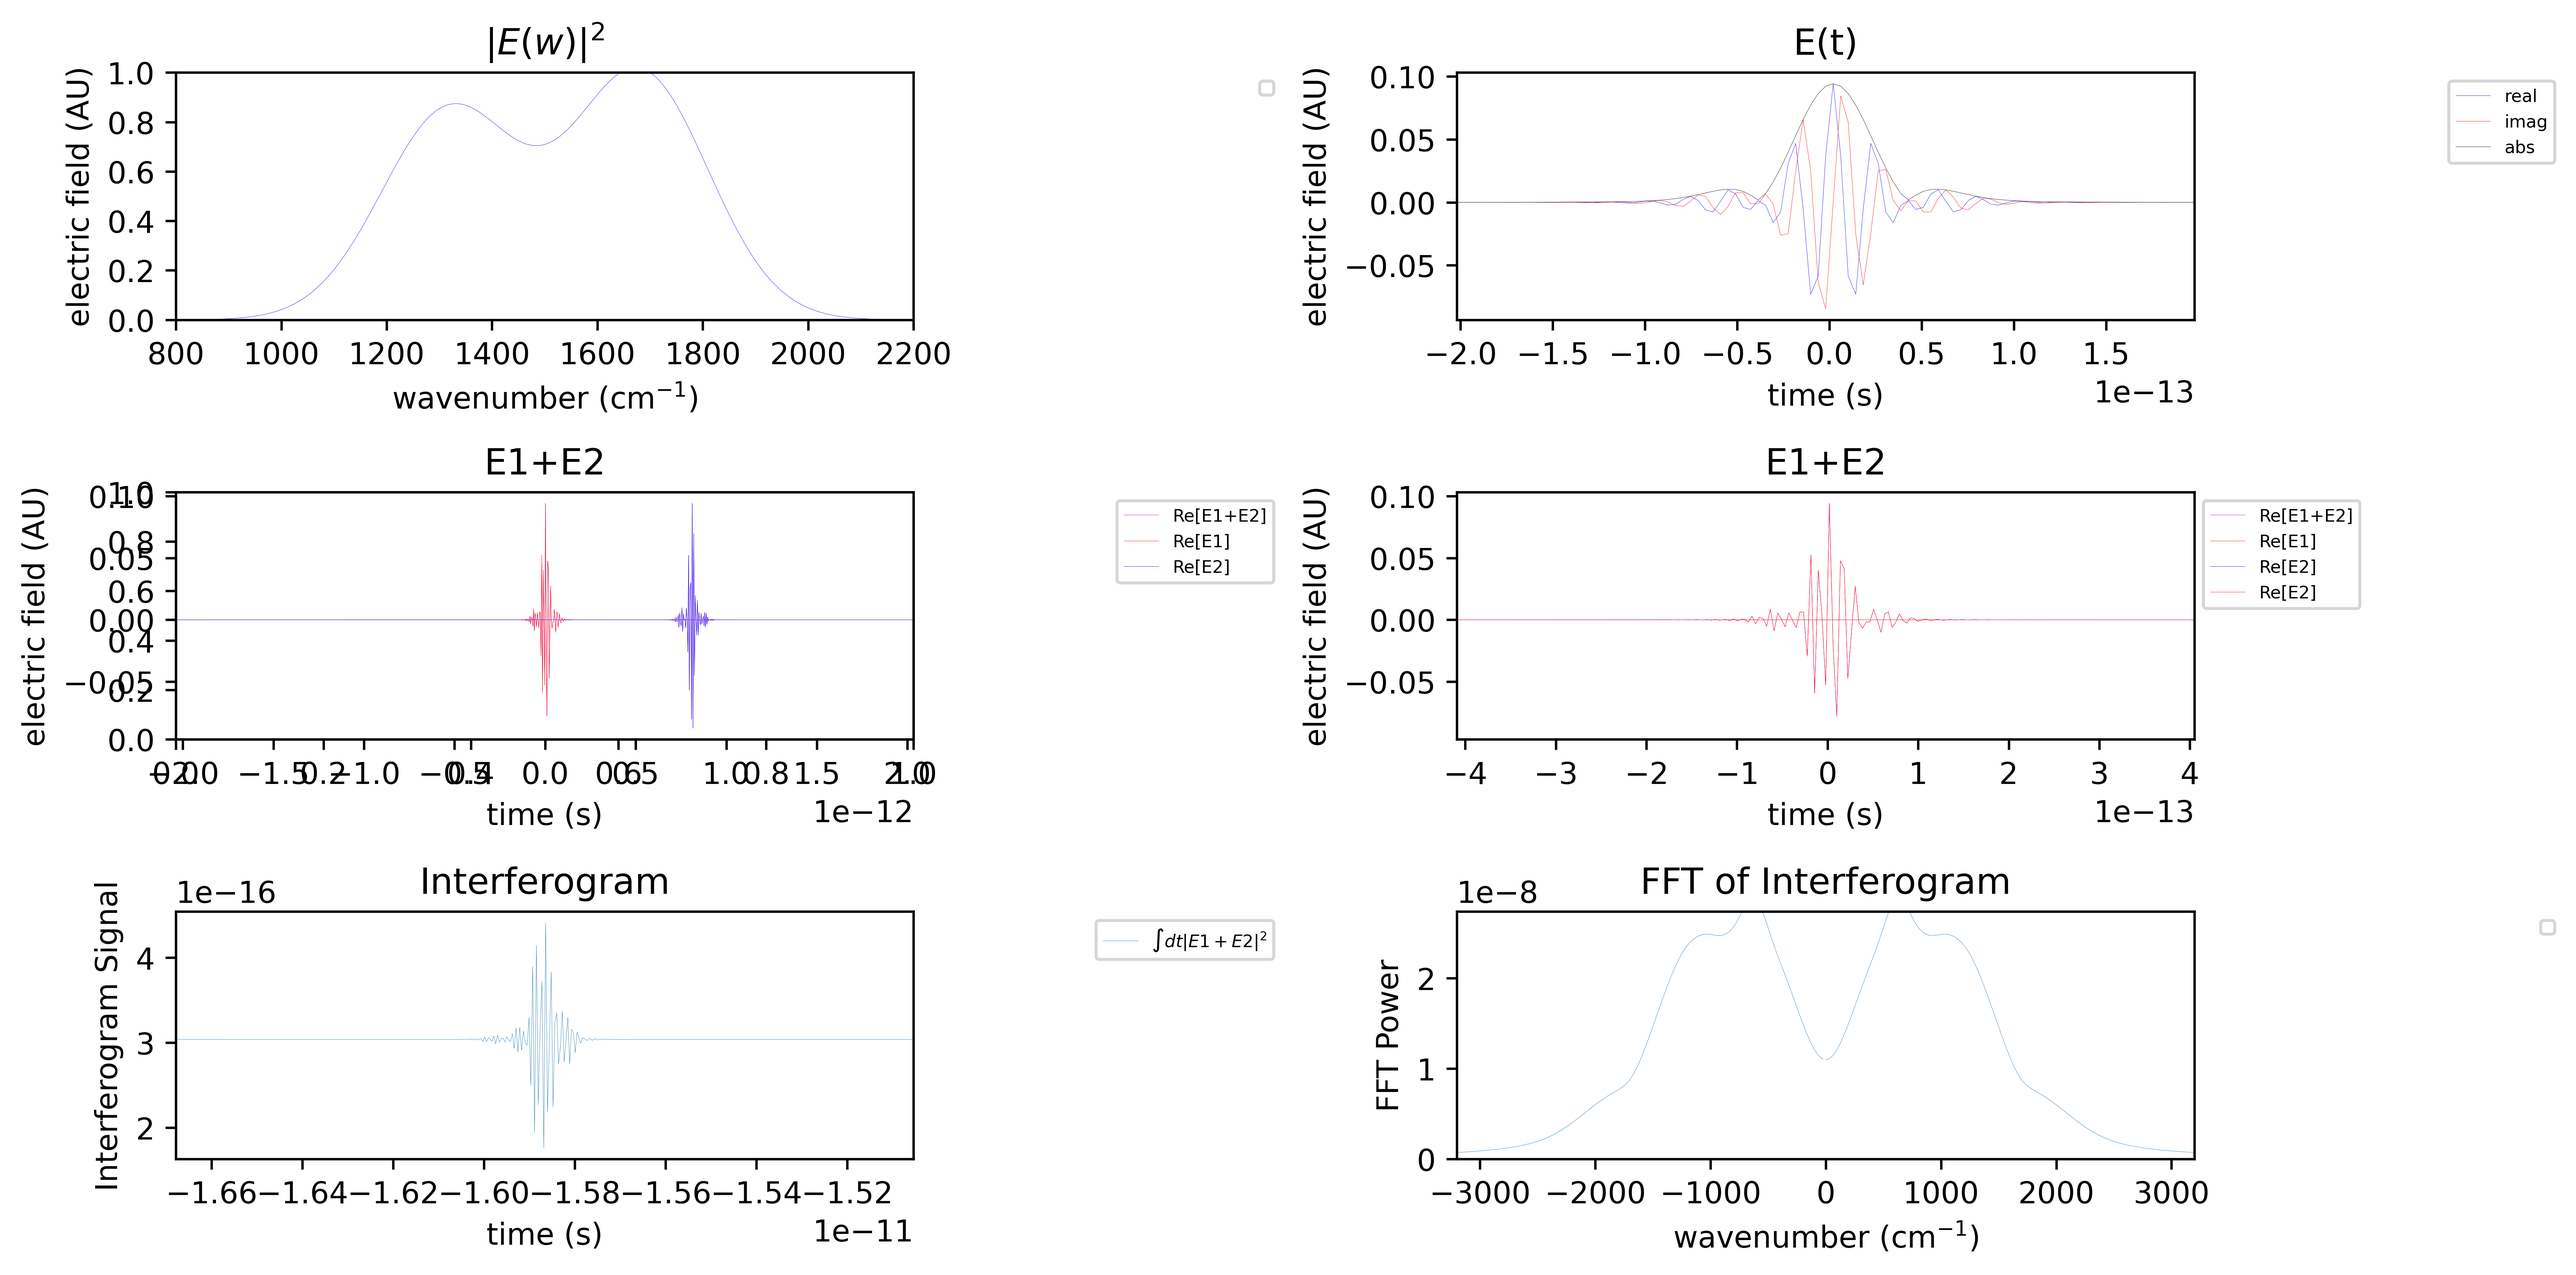
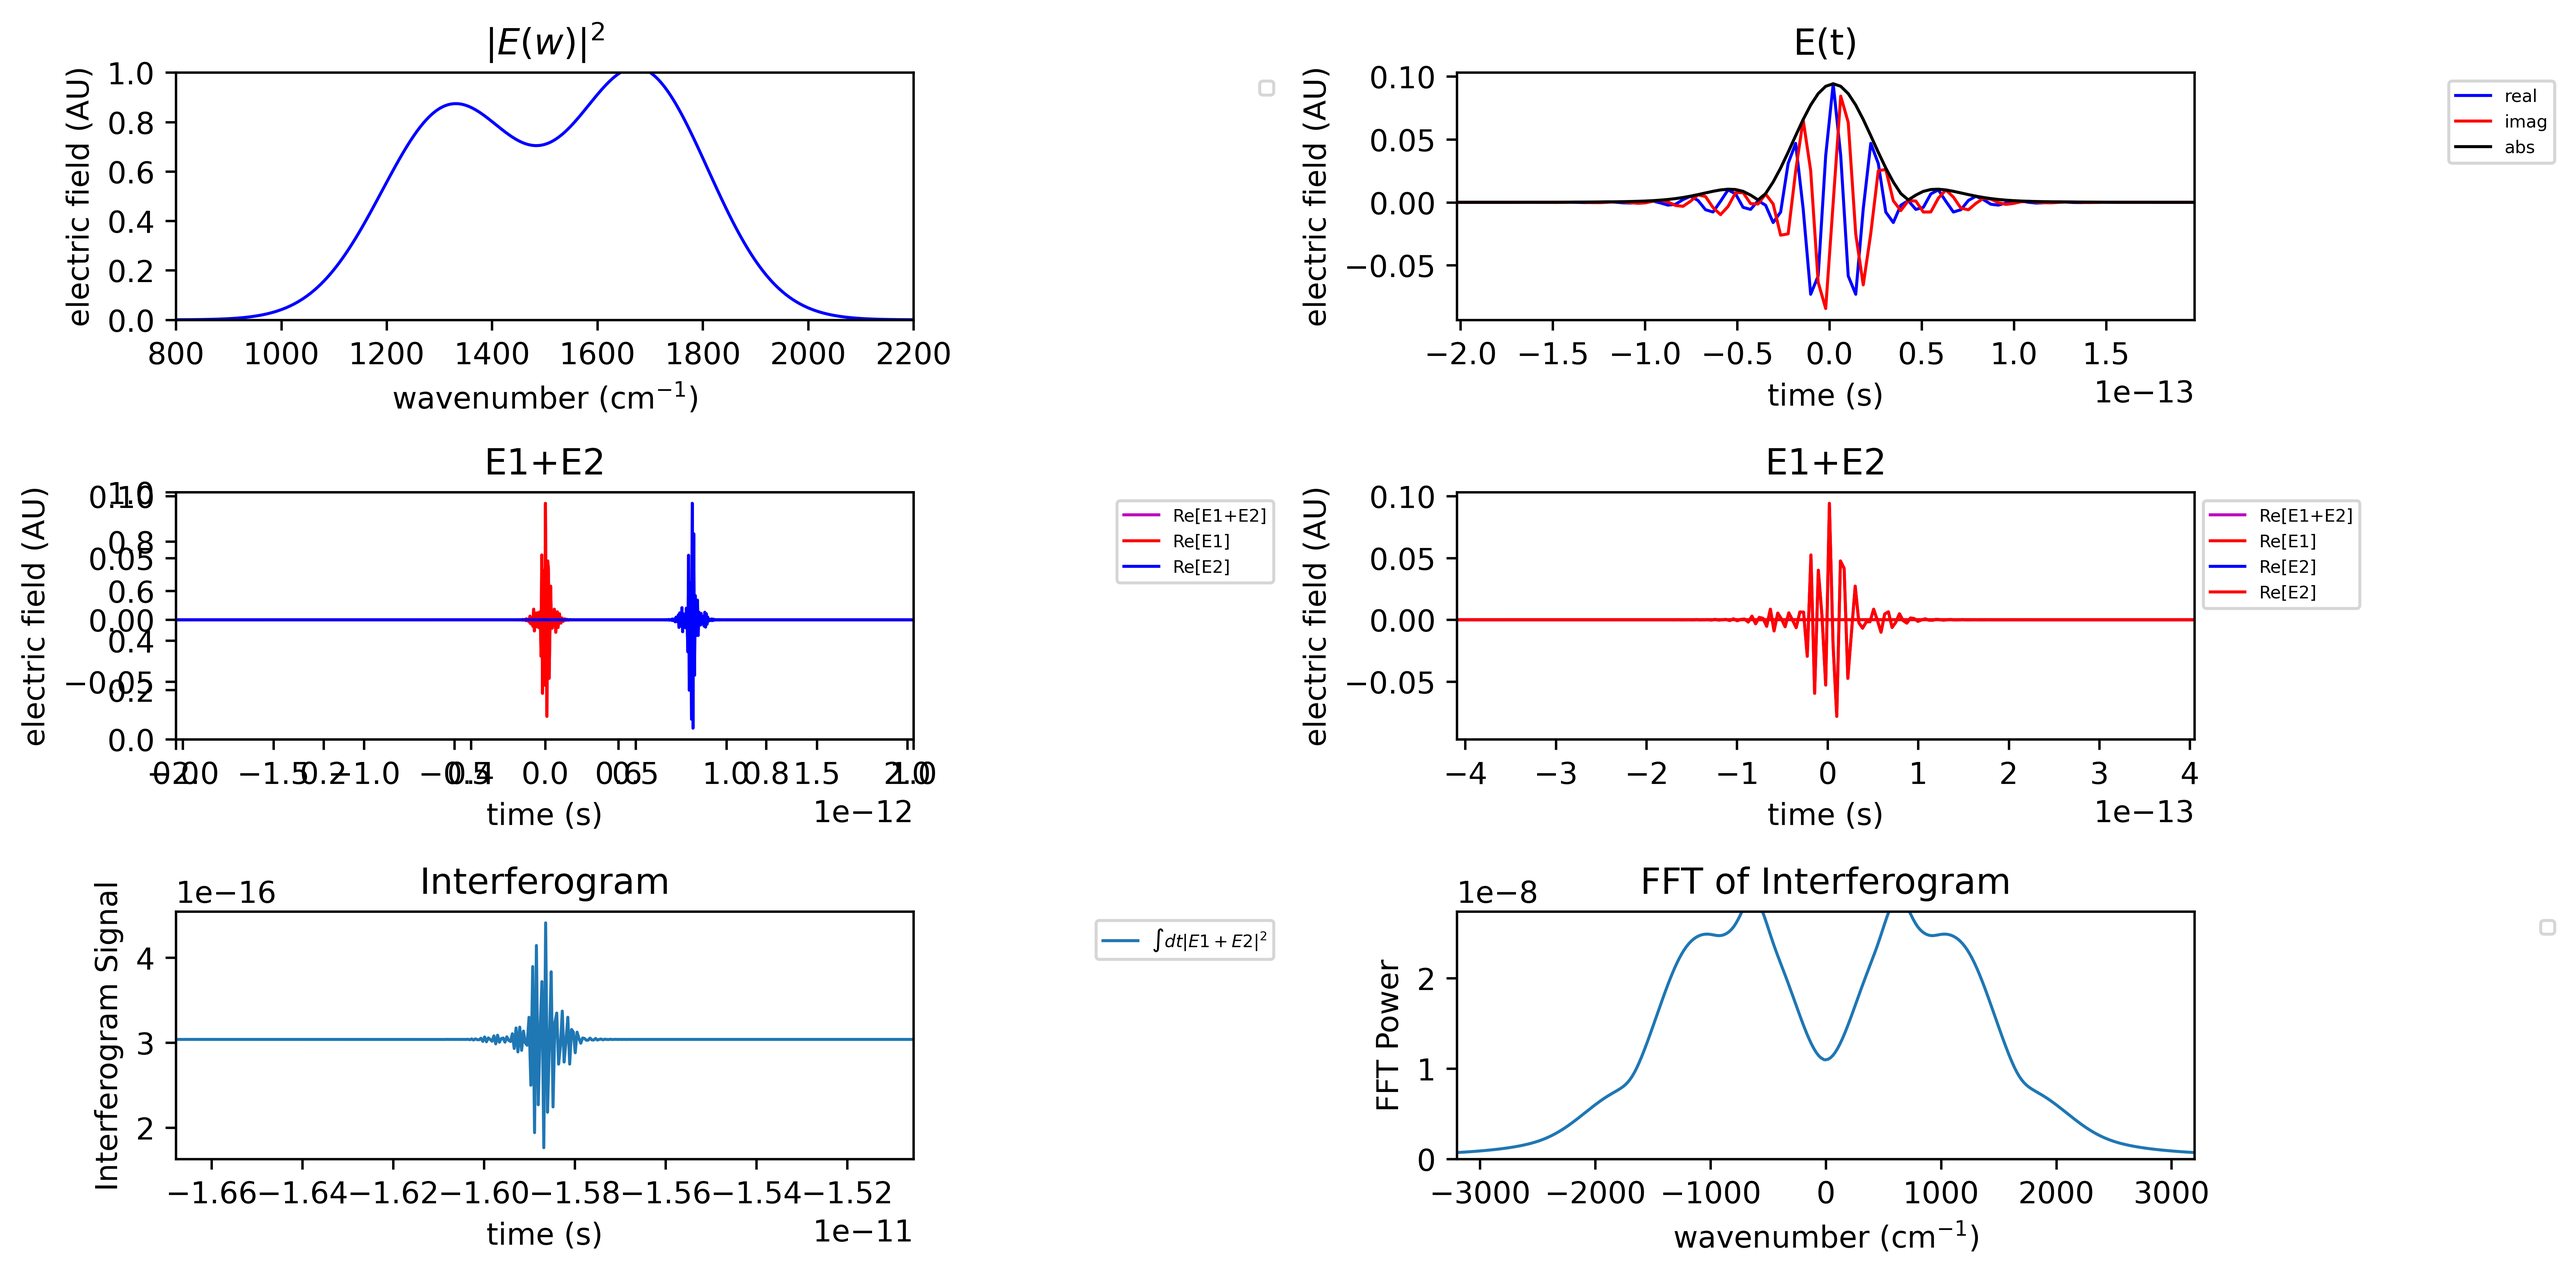
changed where real part of E2 is taken

diff --git a/interf.py b/interf.py
@@ -29,7 +29,7 @@ def main(args):
 
     ##Initlize Plot
     fig = plt.figure(dpi=600, figsize=[12, 6], num=1) #initialize figure A4 size
-    lw = 0.1 #default linewidth
+    lw = 1.0 #default linewidth
     lfs = 'xx-small'#legend font size
     wlabel = 'wavenumber (cm$^{-1}$)' #w axis label
     Elabel = 'electric field (AU)' #electric field label
@@ -75,8 +75,7 @@ def main(args):
     sig_1=np.multiply(np.fft.ifft(np.sqrt(sig_w)), np.exp(-1j*(c1*np.multiply(w,t)+c1*np.multiply(w,t**2))))
     sig_1 = np.real(np.fft.fftshift(sig_1))
     sig_2_0=np.multiply(np.fft.ifft(np.sqrt(sig_w)), np.exp(-1j*(c2*np.multiply(w,t)+c2*np.multiply(w,t**2))))
-    #sig_2_0 = np.real(np.fft.fftshift(sig_2_0))
-    sig_2_0 = np.fft.fftshift(sig_2_0)
+    sig_2_0 = np.real(np.fft.fftshift(sig_2_0))
     
     #Make third subplot
     ax = fig.add_subplot(gs[1,0], title='E(t)')
@@ -92,10 +91,10 @@ def main(args):
     LIVE=False
     n=0
     scan_range = np.arange(-200,200,1)
-    interf_t = np.zeros(len(scan_range))
+    interf_t = np.zeros((len(scan_range)))
     
     for t_n in scan_range:
-        sig_2 = np.real(np.roll(sig_2_0,t_n))#np.roll is used to scan the time axis
+        sig_2 = np.roll(sig_2_0,t_n)#np.roll is used to scan the time axis
         interf_t[n] = integrate.simps(np.power(np.abs(sig_1+sig_2),2.0),t) #the interferogram is the frequency-integrated, magnitude squared of the sum of the electric fields
         n = n + 1
 
